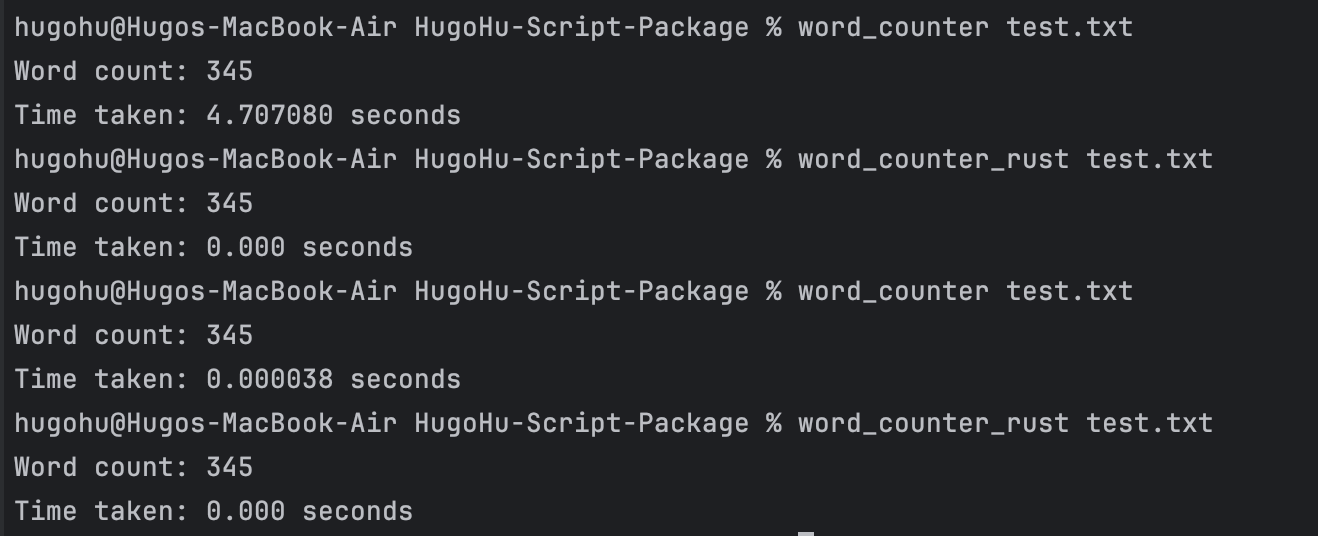
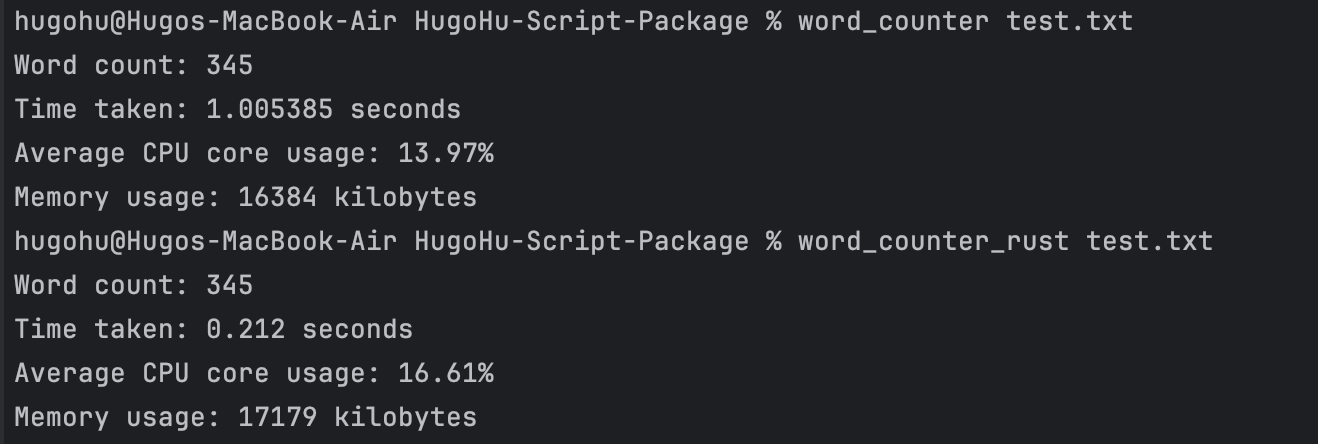
week 8

diff --git a/rust-package/src/main.rs b/rust-package/src/main.rs
@@ -2,6 +2,7 @@ use std::env;
 use std::fs::File;
 use std::io::{self, Read};
 use std::time::Instant;
+use sysinfo::{CpuExt, System, SystemExt};
 
 fn count_words(filename: &str) -> io::Result<usize> {
     let mut file = File::open(filename)?;
@@ -21,14 +22,31 @@ fn main() -> io::Result<()> {
     }
 
     let filename = &args[1];
+    let mut sys = System::new();
+    let mut total_usage = 0.0;
+
 
     let start_time = Instant::now();
+
     let word_count = count_words(filename)?;
-    let elapsed_time = start_time.elapsed();
+
+    sys.refresh_all();
+    for cpu in sys.cpus() {
+         total_usage += cpu.cpu_usage();
+    }
+    // Sleeping to let time for the system to run for long
+    // enough to have useful information.
+    std::thread::sleep(System::MINIMUM_CPU_UPDATE_INTERVAL);
+
+
+    let end_time = Instant::now();
+    let execution_time = end_time - start_time;
+    let average_usage = total_usage / sys.cpus().len() as f32;
 
     println!("Word count: {}", word_count);
-    println!("Time taken: {}.{:03} seconds", elapsed_time.as_secs(), elapsed_time.subsec_millis());
+    println!("Time taken: {}.{:03} seconds", execution_time.as_secs(), execution_time.subsec_millis());
+    println!("Average CPU core usage: {:.2}%", average_usage);
+    println!("Memory usage: {} kilobytes", sys.total_memory() / 1000000);
 
     Ok(())
 }
-

diff --git a/word_counter/cli.py b/word_counter/cli.py
@@ -1,7 +1,9 @@
 """CLI interface for word_counter project.
 """
 import argparse
+import resource
 import time
+import psutil
 
 
 def count_words(filename):
@@ -21,10 +23,24 @@ def main():
     parser.add_argument("filename", help="Path to the text file")
     args = parser.parse_args()
 
+    start_mem_usage = resource.getrusage(resource.RUSAGE_SELF).ru_maxrss
     start_time = time.time()
+
     word_count = count_words(args.filename)
+
+    core_usage = psutil.cpu_percent(interval=1, percpu=True)
+    num_cores = len(core_usage)
+    # Sum up the usage of all CPU cores
+    total_usage = sum(core_usage)
+
+    # Calculate the average CPU core usage
+    average_usage = total_usage / num_cores
+
     end_time = time.time()
     execution_time = end_time - start_time
+    end_mem_usage = resource.getrusage(resource.RUSAGE_SELF).ru_maxrss
 
     print(f"Word count: {word_count}")
     print(f"Time taken: {execution_time:.6f} seconds")
+    print(f"Average CPU core usage: {average_usage:.2f}%")
+    print(f"Memory usage: {end_mem_usage - start_mem_usage} kilobytes")

diff --git a/README.md b/README.md
@@ -51,7 +51,9 @@ word_counter --help
 ```
 
 ## Result
-For the Python version, the first time running the program, it takes unbelievable ```4.707080``` seconds to count the word in test.txt. Though the second time it's much faster: ```0.000038``` second, compared to the Rust version, it's still much slower.
+For the Python version, the running time is ```1.005385s```, which is far slower than the Rust version ```0.212000s```.
+
+The CPU and Memory usage are almost the same, and it really depends on the current system load. The reason the Rust version is a little bit slower probably because the external sysinfo package is slow.
 
 ![](.tutorial/mini7.png)
 
